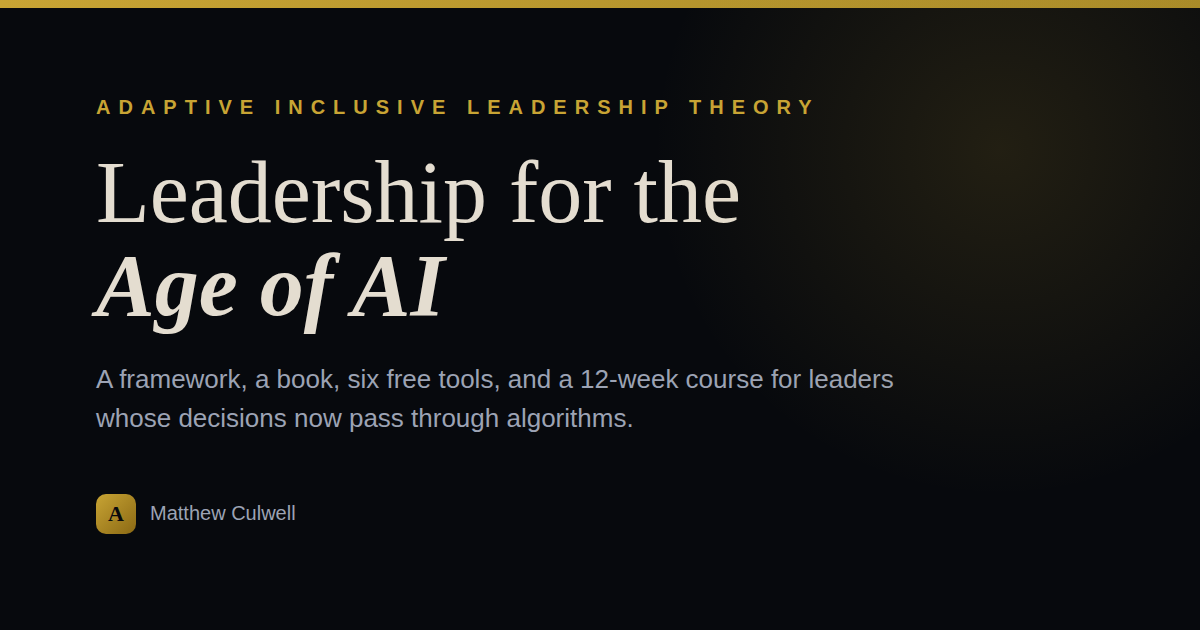
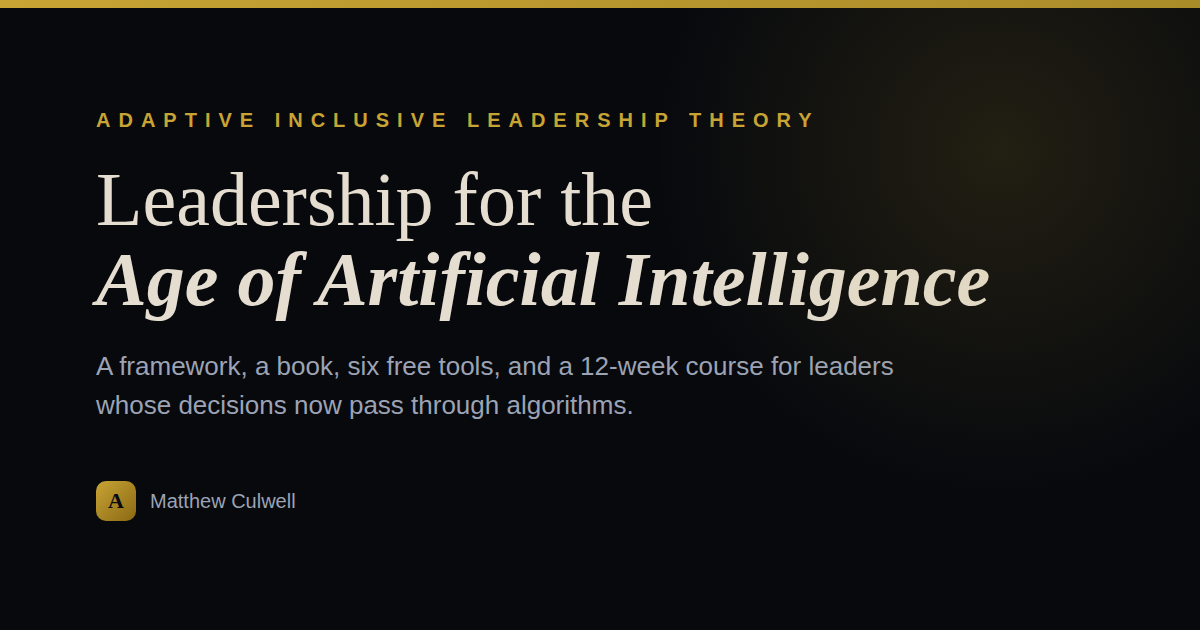
Match the cover title, show stats at rest, tidy the book layout
- Hero, Book heading, course readings, page title, and preview tags say Leadership for the Age of Artificial Intelligence, as printed on the cover
- Stats show their final numbers instead of counting up from 0 on scroll
- Book section: bullets align to the top of the cover, and the cover is a little smaller

Claude-Session: https://claude.ai/code/session_01Tua4aBpJ5KEzXKnBr3Dqoq

diff --git a/src/curriculum.js b/src/curriculum.js
@@ -12,7 +12,7 @@ export const MODULES = [
         "minutes": 70,
         "title": "When the Algorithm Decides",
         "aim": "See why the book says adaptability and inclusivity fail when they are treated as separate skills.",
-        "reading": "Read the Preface and Chapter 1, “When the Algorithm Decides,” in Leadership for the Age of AI. It begins on page 1. Copy the chapter title as printed. Do not write the journal from this screen.",
+        "reading": "Read the Preface and Chapter 1, “When the Algorithm Decides,” in Leadership for the Age of Artificial Intelligence. It begins on page 1. Copy the chapter title as printed. Do not write the journal from this screen.",
         "teach": [
           "Do not let the opening company become the subject. Mark the sentence that says the story is not about that company.",
           "Mark where the three capabilities are named, and the line about what holds them together. Then mark the prediction that says which failure is worse. The names belong in your journal, from the page."
@@ -39,7 +39,7 @@ export const MODULES = [
         "minutes": 60,
         "title": "The Adaptive Organization",
         "aim": "Use Chapter 2’s account of adaptive capacity, not a slogan about being agile.",
-        "reading": "Read Chapter 2, “The Adaptive Organization,” in Leadership for the Age of AI. It begins on page 21. Copy the chapter title as printed. Do not write the journal from this screen.",
+        "reading": "Read Chapter 2, “The Adaptive Organization,” in Leadership for the Age of Artificial Intelligence. It begins on page 21. Copy the chapter title as printed. Do not write the journal from this screen.",
         "teach": [
           "The opening is a date, not a definition. Mark what the organizations that coped were able to tell, and what the others could not.",
           "Mark the distinction between a problem the existing expertise can already solve and a challenge that requires people to learn. Note which one a technology rollout is sold as, and which one it is lived as."
@@ -75,7 +75,7 @@ export const MODULES = [
         "minutes": 60,
         "title": "Inclusion When the Algorithm Is Watching",
         "aim": "See how Chapter 3 separates a diversity statement from a system that was never examined by the people it sorts.",
-        "reading": "Read Chapter 3, “Inclusion When the Algorithm Is Watching,” in Leadership for the Age of AI. It begins on page 43. Copy the chapter title as printed. Do not write the journal from this screen.",
+        "reading": "Read Chapter 3, “Inclusion When the Algorithm Is Watching,” in Leadership for the Age of Artificial Intelligence. It begins on page 43. Copy the chapter title as printed. Do not write the journal from this screen.",
         "teach": [
           "The opening is a case in which software sorted people before a human saw them. Mark the sentence that says intent was not required.",
           "Mark the difference the chapter draws between a written policy and an evaluation that includes the people the system can harm."
@@ -103,7 +103,7 @@ export const MODULES = [
         "minutes": 60,
         "title": "When the Data Has an Opinion",
         "aim": "Use Chapter 4’s opening scene. Say what the room did with the score.",
-        "reading": "Read Chapter 4, “Making Decisions When the Data Has an Opinion,” in Leadership for the Age of AI. It begins on page 65. Copy the chapter title as printed. Do not write the journal from this screen.",
+        "reading": "Read Chapter 4, “Making Decisions When the Data Has an Opinion,” in Leadership for the Age of Artificial Intelligence. It begins on page 65. Copy the chapter title as printed. Do not write the journal from this screen.",
         "teach": [
           "The opening is a room with a short clock and a ranked list. Mark who the rank buries. Do not copy the book’s description onto this screen.",
           "Mark the move the book wants instead of treating a challenge to the score as a challenge to mathematics."
@@ -139,7 +139,7 @@ export const MODULES = [
         "minutes": 60,
         "title": "Humans and Machines Share the Work",
         "aim": "Use Chapter 5’s opening. Name the two failures and what the third path requires.",
-        "reading": "Read Chapter 5, “Communication When Humans and Machines Share the Work,” in Leadership for the Age of AI. It begins on page 87. Copy the chapter title as printed. Do not write the journal from this screen.",
+        "reading": "Read Chapter 5, “Communication When Humans and Machines Share the Work,” in Leadership for the Age of Artificial Intelligence. It begins on page 87. Copy the chapter title as printed. Do not write the journal from this screen.",
         "teach": [
           "The opening puts a person between a model and what they can see. Mark the two failures the chapter names. Do not write them here.",
           "Mark what has to be true before someone can say the model and the room disagree."
@@ -166,7 +166,7 @@ export const MODULES = [
         "minutes": 150,
         "title": "Five Cases",
         "aim": "Read the cases as tests of the theory, not as success stories.",
-        "reading": "Read Chapter 6, “Case Studies of Adaptive Inclusive Leadership,” in Leadership for the Age of AI, including Synergistic Solutions, Global Dynamics, InnovateTech, GreenTech Solutions, and Community Connect. It begins on page 109. Copy the chapter title as printed. Do not write the journal from this screen.",
+        "reading": "Read Chapter 6, “Case Studies of Adaptive Inclusive Leadership,” in Leadership for the Age of Artificial Intelligence, including Synergistic Solutions, Global Dynamics, InnovateTech, GreenTech Solutions, and Community Connect. It begins on page 109. Copy the chapter title as printed. Do not write the journal from this screen.",
         "teach": [
           "Read the paragraph that says why these five organizations were chosen before you read the stories. The sectors are the point. The screen will not list them.",
           "Do not stop at the stories. Mark the patterns the chapter names after the last case. The journal has to use one of those patterns from the page."
@@ -202,7 +202,7 @@ export const MODULES = [
         "minutes": 70,
         "title": "Practical Tools",
         "aim": "Use Chapter 7 on yourself. The tool is not the point. The gap is.",
-        "reading": "Read Chapter 7, “Practical Tools and Techniques,” in Leadership for the Age of AI, and begin Appendix A, the AILT assessment, which starts on page 325. Chapter 7 begins on page 133. Copy the chapter title as printed. Do not write the journal from this screen.",
+        "reading": "Read Chapter 7, “Practical Tools and Techniques,” in Leadership for the Age of Artificial Intelligence, and begin Appendix A, the AILT assessment, which starts on page 325. Chapter 7 begins on page 133. Copy the chapter title as printed. Do not write the journal from this screen.",
         "teach": [
           "The chapter refuses a passive reading. Mark the questions it asks you to answer about your own practice, including the ones about a system. Do not answer them from memory of this screen.",
           "Appendix A is the longer instrument. Use it as a diagnosis. Mark the items you wanted to skip."
@@ -265,7 +265,7 @@ export const MODULES = [
         "minutes": 70,
         "title": "Discussion and Synthesis",
         "aim": "Leave Chapter 10 able to say both the pattern and the limit.",
-        "reading": "Read Chapter 10, “Systematic Evidence Review: Discussion and Synthesis,” in Leadership for the Age of AI. It begins on page 199. This is the chapter the preface points to for the research agenda. Copy the chapter title as printed. Do not write the journal from this screen.",
+        "reading": "Read Chapter 10, “Systematic Evidence Review: Discussion and Synthesis,” in Leadership for the Age of Artificial Intelligence. It begins on page 199. This is the chapter the preface points to for the research agenda. Copy the chapter title as printed. Do not write the journal from this screen.",
         "teach": [
           "Mark the sentence about what the studies converge on, and the sentence about the limit. Read the limit at least as carefully as the claim.",
           "Write down what the chapter says still has to be measured, and what a leader is still responsible for before that measurement exists."

diff --git a/src/App.jsx b/src/App.jsx
@@ -23,17 +23,8 @@ function FI({ children, delay = 0, style = {} }) {
 }
 
 function AnimNum({ value, suffix = "" }) {
-  const [d, setD] = useState(0);
-  const [ref, vis] = useInView(0.3);
-  useEffect(() => {
-    if (!vis) return;
-    const n = parseInt(value.toString().replace(/\D/g, ""));
-    if (isNaN(n)) { setD(value); return; }
-    let s = 0; const step = Math.max(1, Math.floor(n / 80));
-    const t = setInterval(() => { s += step; if (s >= n) { setD(n); clearInterval(t); } else setD(s); }, 16);
-    return () => clearInterval(t);
-  }, [vis, value]);
-  return <span ref={ref}>{typeof d === "number" ? d.toLocaleString() : d}{suffix}</span>;
+  const n = parseInt(value.toString().replace(/\D/g, ""));
+  return <span>{isNaN(n) ? value : n.toLocaleString()}{suffix}</span>;
 }
 
 function Card({ children, style: s = {} }) {
@@ -893,7 +884,7 @@ export default function AILTSite() {
           <div style={{ position: "absolute", top: "-20%", right: "-10%", width: 600, height: 600, background: `radial-gradient(circle,${G}08 0%,transparent 70%)`, pointerEvents: "none" }} />
           <div style={{ textAlign: "center", maxWidth: 800, position: "relative", zIndex: 1 }}>
             <FI><div style={{ fontSize: 11, fontWeight: 700, letterSpacing: 4, color: G, textTransform: "uppercase", marginBottom: 16 }}>Adaptive Inclusive Leadership Theory</div></FI>
-            <FI delay={0.15}><h1 className="ailt-hero-title" style={{ fontSize: 48, fontWeight: 300, color: L, fontFamily: "'Cormorant Garamond',serif", lineHeight: 1.15, marginBottom: 20 }}>Leadership for the<br /><span style={{ fontWeight: 700, fontStyle: "italic" }}>Age of AI</span></h1></FI>
+            <FI delay={0.15}><h1 className="ailt-hero-title" style={{ fontSize: 48, fontWeight: 300, color: L, fontFamily: "'Cormorant Garamond',serif", lineHeight: 1.15, marginBottom: 20 }}>Leadership for the<br /><span style={{ fontWeight: 700, fontStyle: "italic" }}>Age of Artificial Intelligence</span></h1></FI>
             <FI delay={0.3}><p style={{ fontSize: 17, color: T, lineHeight: 1.7, maxWidth: 600, margin: "0 auto 32px" }}>For executives, people leaders, and AI governance teams whose decisions now pass through algorithms. A theory, a book, six free tools, and a 12-week course that works from the book, page by page.</p></FI>
             <FI delay={0.45}><div style={{ display: "flex", gap: 16, justifyContent: "center", flexWrap: "wrap" }}>
               <button onClick={() => setPage("assessment")} style={{ background: `linear-gradient(135deg,${G},#a88a28)`, color: D, border: "none", padding: "14px 32px", borderRadius: 10, fontSize: 14, fontWeight: 700, cursor: "pointer" }}>Take the free assessment</button>
@@ -958,10 +949,10 @@ export default function AILTSite() {
 
         <section id="book" style={{ padding: "100px 40px" }}>
           <div style={{ maxWidth: 1100, margin: "0 auto" }}>
-            <SectionTitle tag="The Book" title="Leadership for the Age of AI" sub="73,000 words of theory, evidence, case studies, and practical application." />
-            <div className="g2" style={{ display: "grid", gridTemplateColumns: "1fr 1fr", gap: 40, alignItems: "center" }}>
+            <SectionTitle tag="The Book" title="Leadership for the Age of Artificial Intelligence" sub="73,000 words of theory, evidence, case studies, and practical application." />
+            <div className="g2" style={{ display: "grid", gridTemplateColumns: "1fr 1fr", gap: 40, alignItems: "start" }}>
               <FI><div style={{ background: `linear-gradient(135deg,${D2},${D3})`, border: `1px solid ${G}20`, borderRadius: 16, padding: 40, textAlign: "center" }}>
-                <a href="https://a.co/d/056JGgCx" target="_blank" rel="noopener noreferrer" style={{ display: "block", maxWidth: 320, margin: "0 auto 24px" }}>
+                <a href="https://a.co/d/056JGgCx" target="_blank" rel="noopener noreferrer" style={{ display: "block", maxWidth: 280, margin: "0 auto 24px" }}>
                   <img src="/book-cover.jpg" alt="Book cover: Leadership for the Age of Artificial Intelligence by Matthew Culwell" style={{ display: "block", width: "100%", height: "auto", borderRadius: 12, border: `1px solid ${G}30`, boxShadow: "0 24px 80px rgba(0,0,0,0.6)" }} />
                 </a>
                 <div style={{ fontSize: 22, fontWeight: 700, color: L, fontFamily: "'Cormorant Garamond',serif", marginBottom: 4 }}>Adaptive Inclusive<br />Leadership Theory</div>

diff --git a/index.html b/index.html
@@ -3,20 +3,20 @@
   <head>
     <meta charset="UTF-8" />
     <meta name="viewport" content="width=device-width, initial-scale=1.0" />
-    <title>AILT - Leadership for the Age of AI | Matthew Culwell</title>
+    <title>AILT - Leadership for the Age of Artificial Intelligence | Matthew Culwell</title>
     <meta name="description" content="Adaptive Inclusive Leadership Theory: a framework, a book, six free tools, and a 12-week course for leaders whose decisions now pass through algorithms. By Matthew Culwell." />
     <meta name="theme-color" content="#07090d" />
     <link rel="icon" type="image/svg+xml" href="/favicon.svg" />
     <meta property="og:type" content="website" />
     <meta property="og:site_name" content="AILT" />
-    <meta property="og:title" content="AILT: Leadership for the Age of AI" />
+    <meta property="og:title" content="AILT: Leadership for the Age of Artificial Intelligence" />
     <meta property="og:description" content="A framework, a book, six free tools, and a 12-week course for leaders whose decisions now pass through algorithms." />
     <meta property="og:url" content="https://ailt-leadership.vercel.app/" />
     <meta property="og:image" content="https://ailt-leadership.vercel.app/og.png" />
     <meta property="og:image:width" content="1200" />
     <meta property="og:image:height" content="630" />
     <meta name="twitter:card" content="summary_large_image" />
-    <meta name="twitter:title" content="AILT: Leadership for the Age of AI" />
+    <meta name="twitter:title" content="AILT: Leadership for the Age of Artificial Intelligence" />
     <meta name="twitter:description" content="A framework, a book, six free tools, and a 12-week course for leaders whose decisions now pass through algorithms." />
     <meta name="twitter:image" content="https://ailt-leadership.vercel.app/og.png" />
     <link rel="preconnect" href="https://fonts.googleapis.com" />

diff --git a/src/program.jsx b/src/program.jsx
@@ -146,7 +146,7 @@ export function Program({ onBack, initial, onLesson }) {
             <div style={{ border: `1px solid ${G}`, background: D2, borderRadius: 12, padding: 16, marginBottom: 22 }}>
               <div style={{ fontSize: 11, letterSpacing: 2, color: G, fontWeight: 700 }}>READ THIS FIRST</div>
               <p style={{ lineHeight: 1.6, marginTop: 8 }}>{les.reading}</p>
-              <a href="https://a.co/d/056JGgCx" target="_blank" rel="noreferrer" style={{ display: "inline-block", marginTop: 10, color: G, fontWeight: 700, fontSize: 14 }}>Leadership for the Age of AI on Amazon</a>
+              <a href="https://a.co/d/056JGgCx" target="_blank" rel="noreferrer" style={{ display: "inline-block", marginTop: 10, color: G, fontWeight: 700, fontSize: 14 }}>Leadership for the Age of Artificial Intelligence on Amazon</a>
             </div>
             <h2 style={h2}>What to watch for while you read</h2>
             {les.teach.map((p, i) => <p key={i} style={{ lineHeight: 1.7, marginBottom: 14, color: L }}>{p}</p>)}
